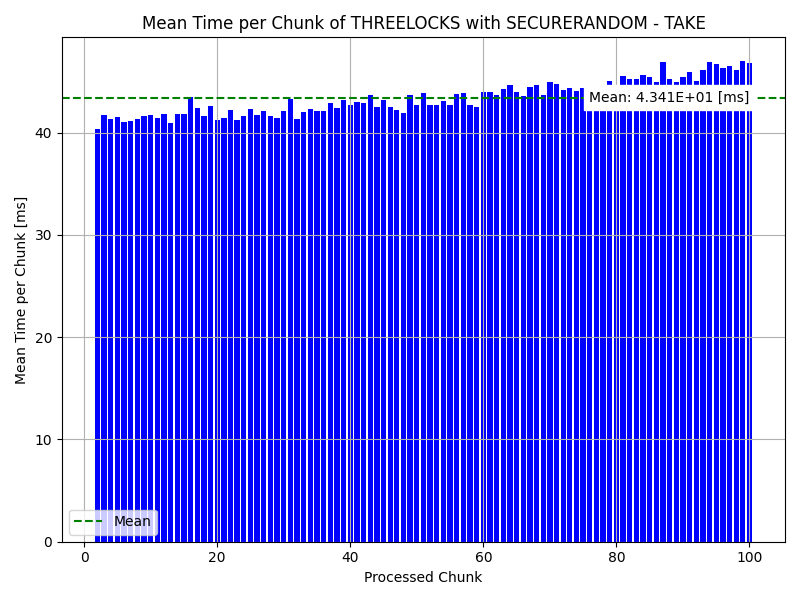
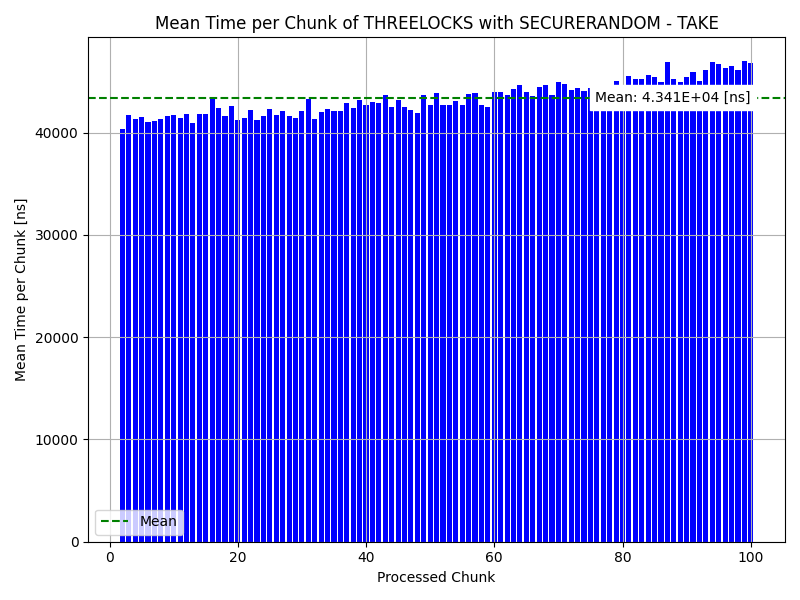
MOREPLOTS2

Changed region(s): [[0.0625, 0.09, 0.9688, 0.99], [0.1562, 0.0, 0.9062, 0.06], [0.0, 0.33, 0.0312, 0.66]]

diff --git a/python_plots/myPlots.py b/python_plots/myPlots.py
@@ -35,15 +35,17 @@ def makePlots(path, plot_type):
                 plt.ylabel('Number of Executions')
                 plt.xlabel('Thread ID')
                 mean_value = df_group['executions'].mean()
+                print(group, df_group['executions'].sum())
                 plt.text(df_group['threadID'].iloc[-1], mean_value, f'Mean: {mean_value:.3E}', va='center',
                          ha='right', backgroundcolor='white')
 
             else:
-                plt.bar(df_group['putTakeChunk'], df_group['meanTime'] / 1000, color=('blue' if group[2] == "take" else "red"))
-                plt.ylabel('Mean Time per Chunk [ms]')
+                plt.bar(df_group['putTakeChunk'], df_group['meanTime'], color=('blue' if group[2] == "take" else "red"))
+                plt.ylabel('Mean Time per Chunk [ns]')
                 plt.xlabel('Processed Chunk')
-                mean_value = df_group['meanTime'].mean() / 1000
-                plt.text(df_group['putTakeChunk'].iloc[-1], mean_value, f'Mean: {mean_value:.3E} [ms]', va='center',
+                mean_value = df_group['meanTime'].mean()
+                # print(group, df_group['meanTime'].sum())
+                plt.text(df_group['putTakeChunk'].iloc[-1], mean_value, f'Mean: {mean_value:.3E} [ns]', va='center',
                          ha='right', backgroundcolor='white')
 
             # Calculate mean and plot mean line
